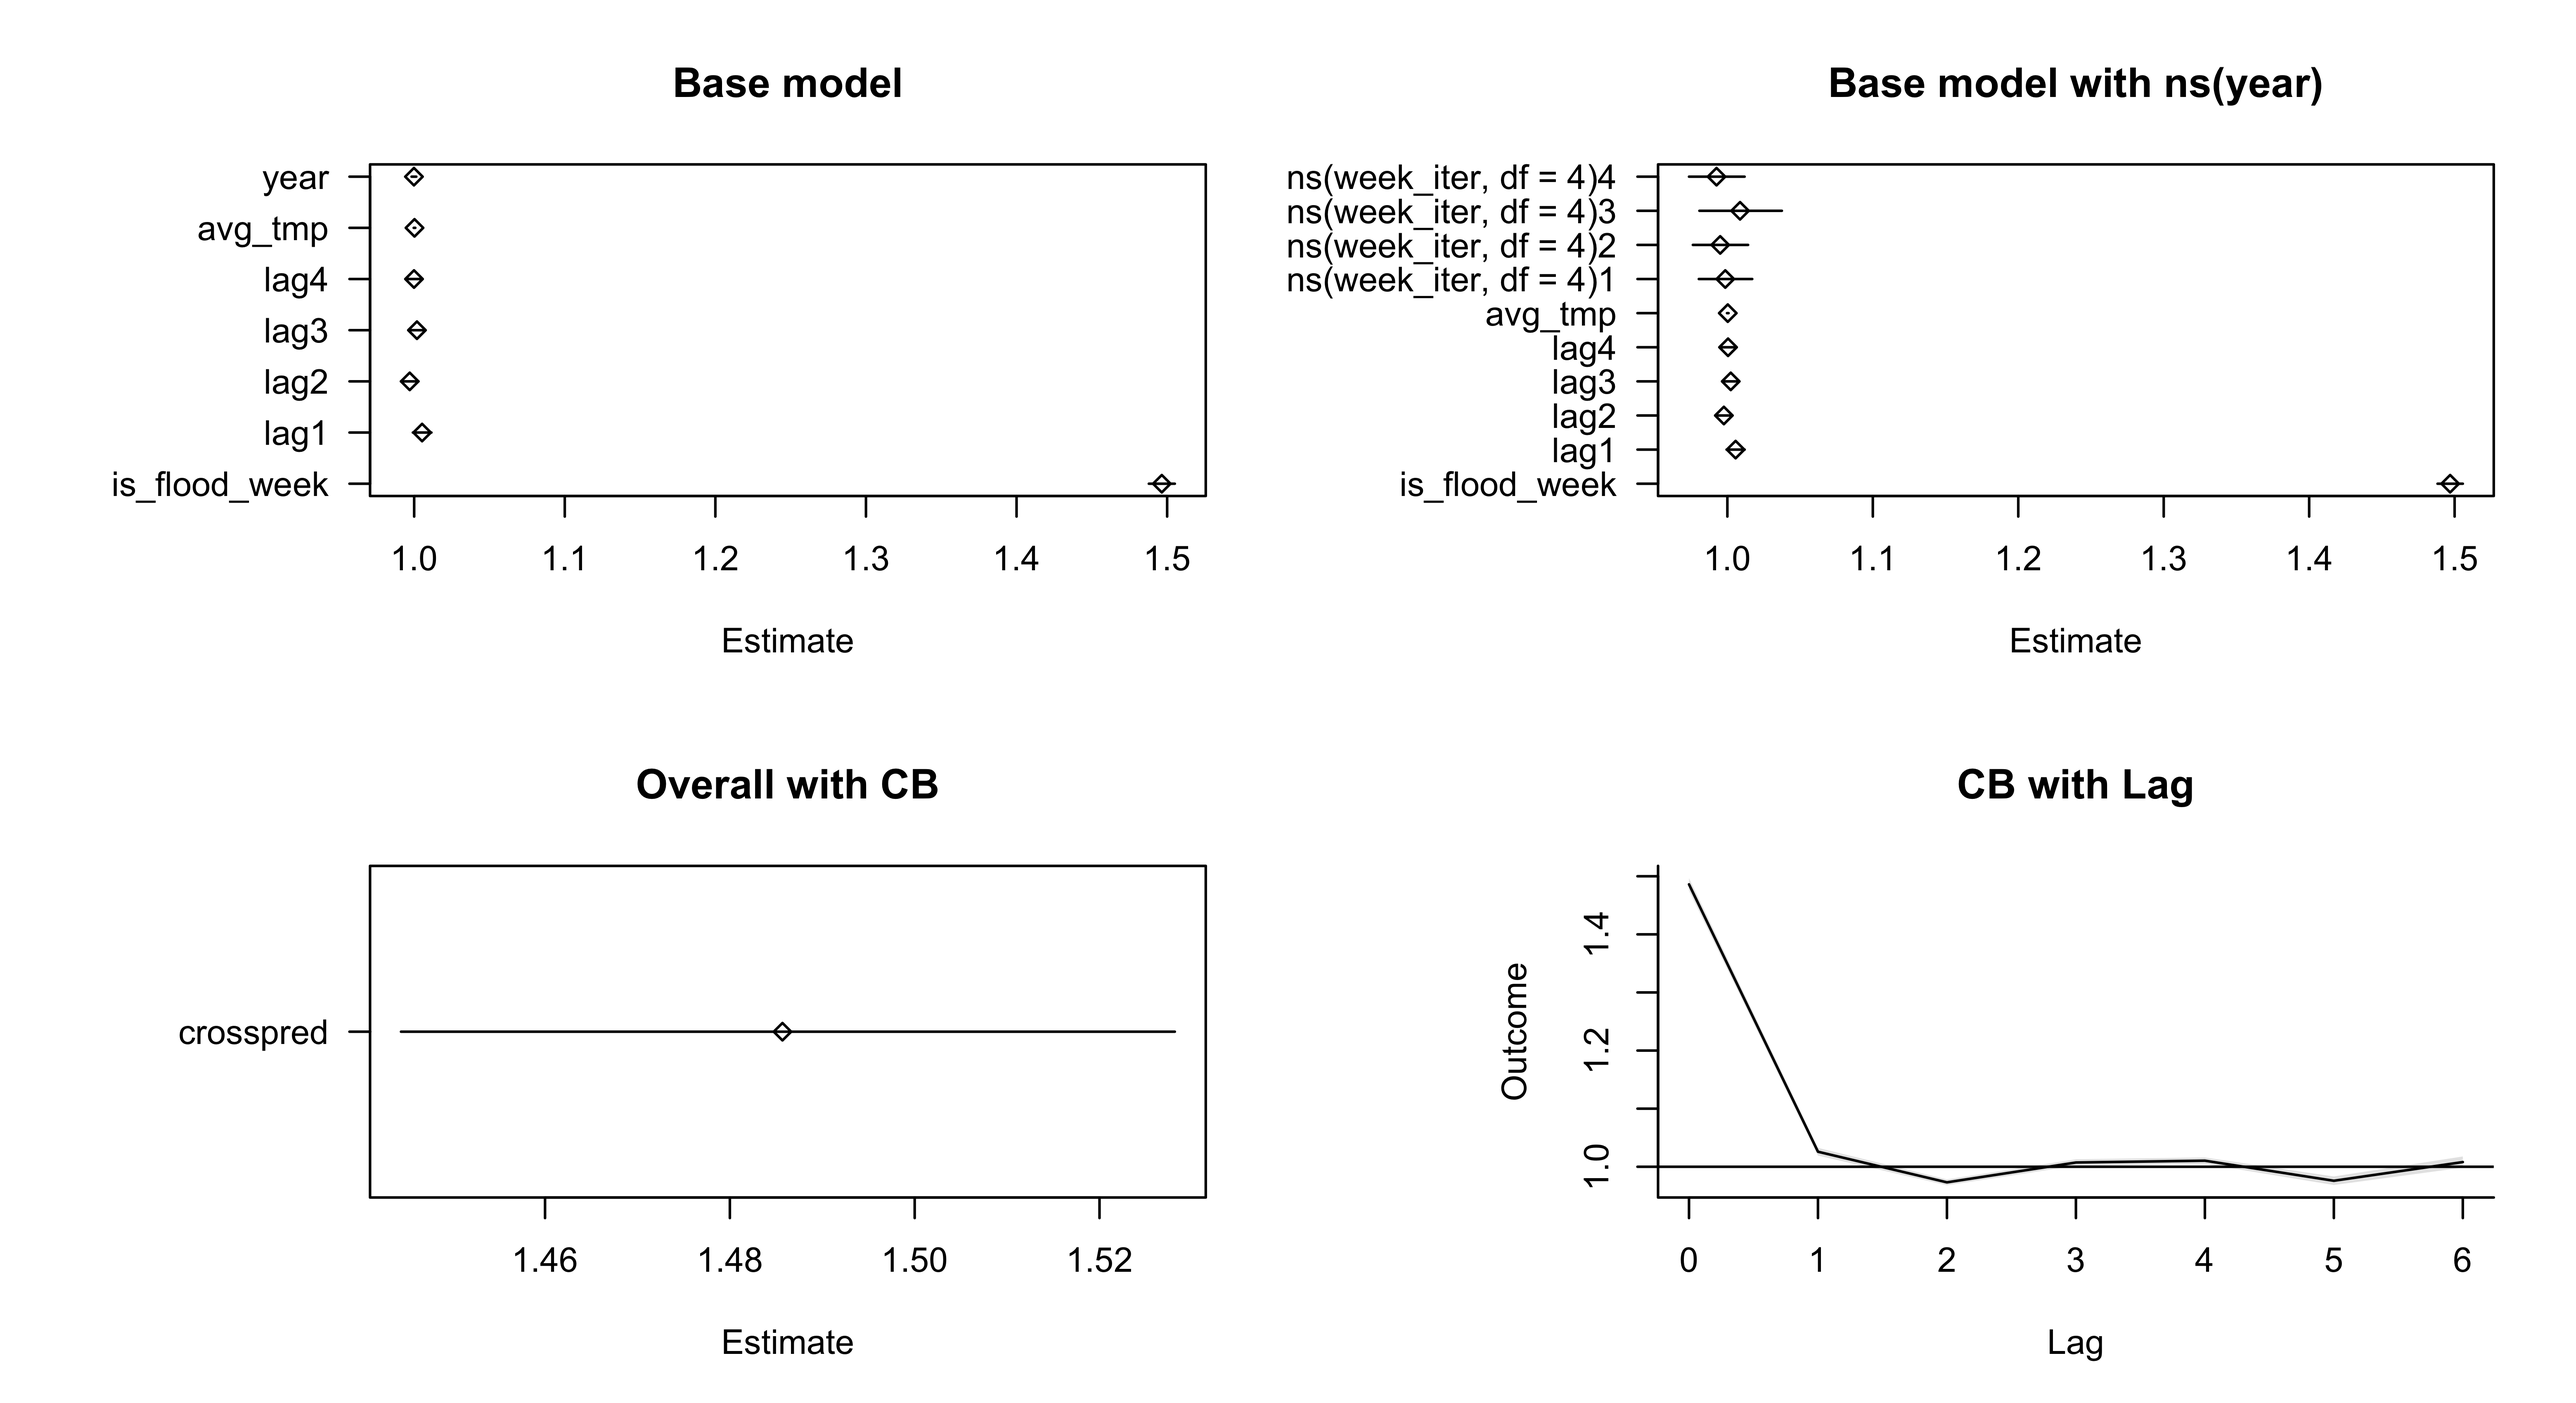
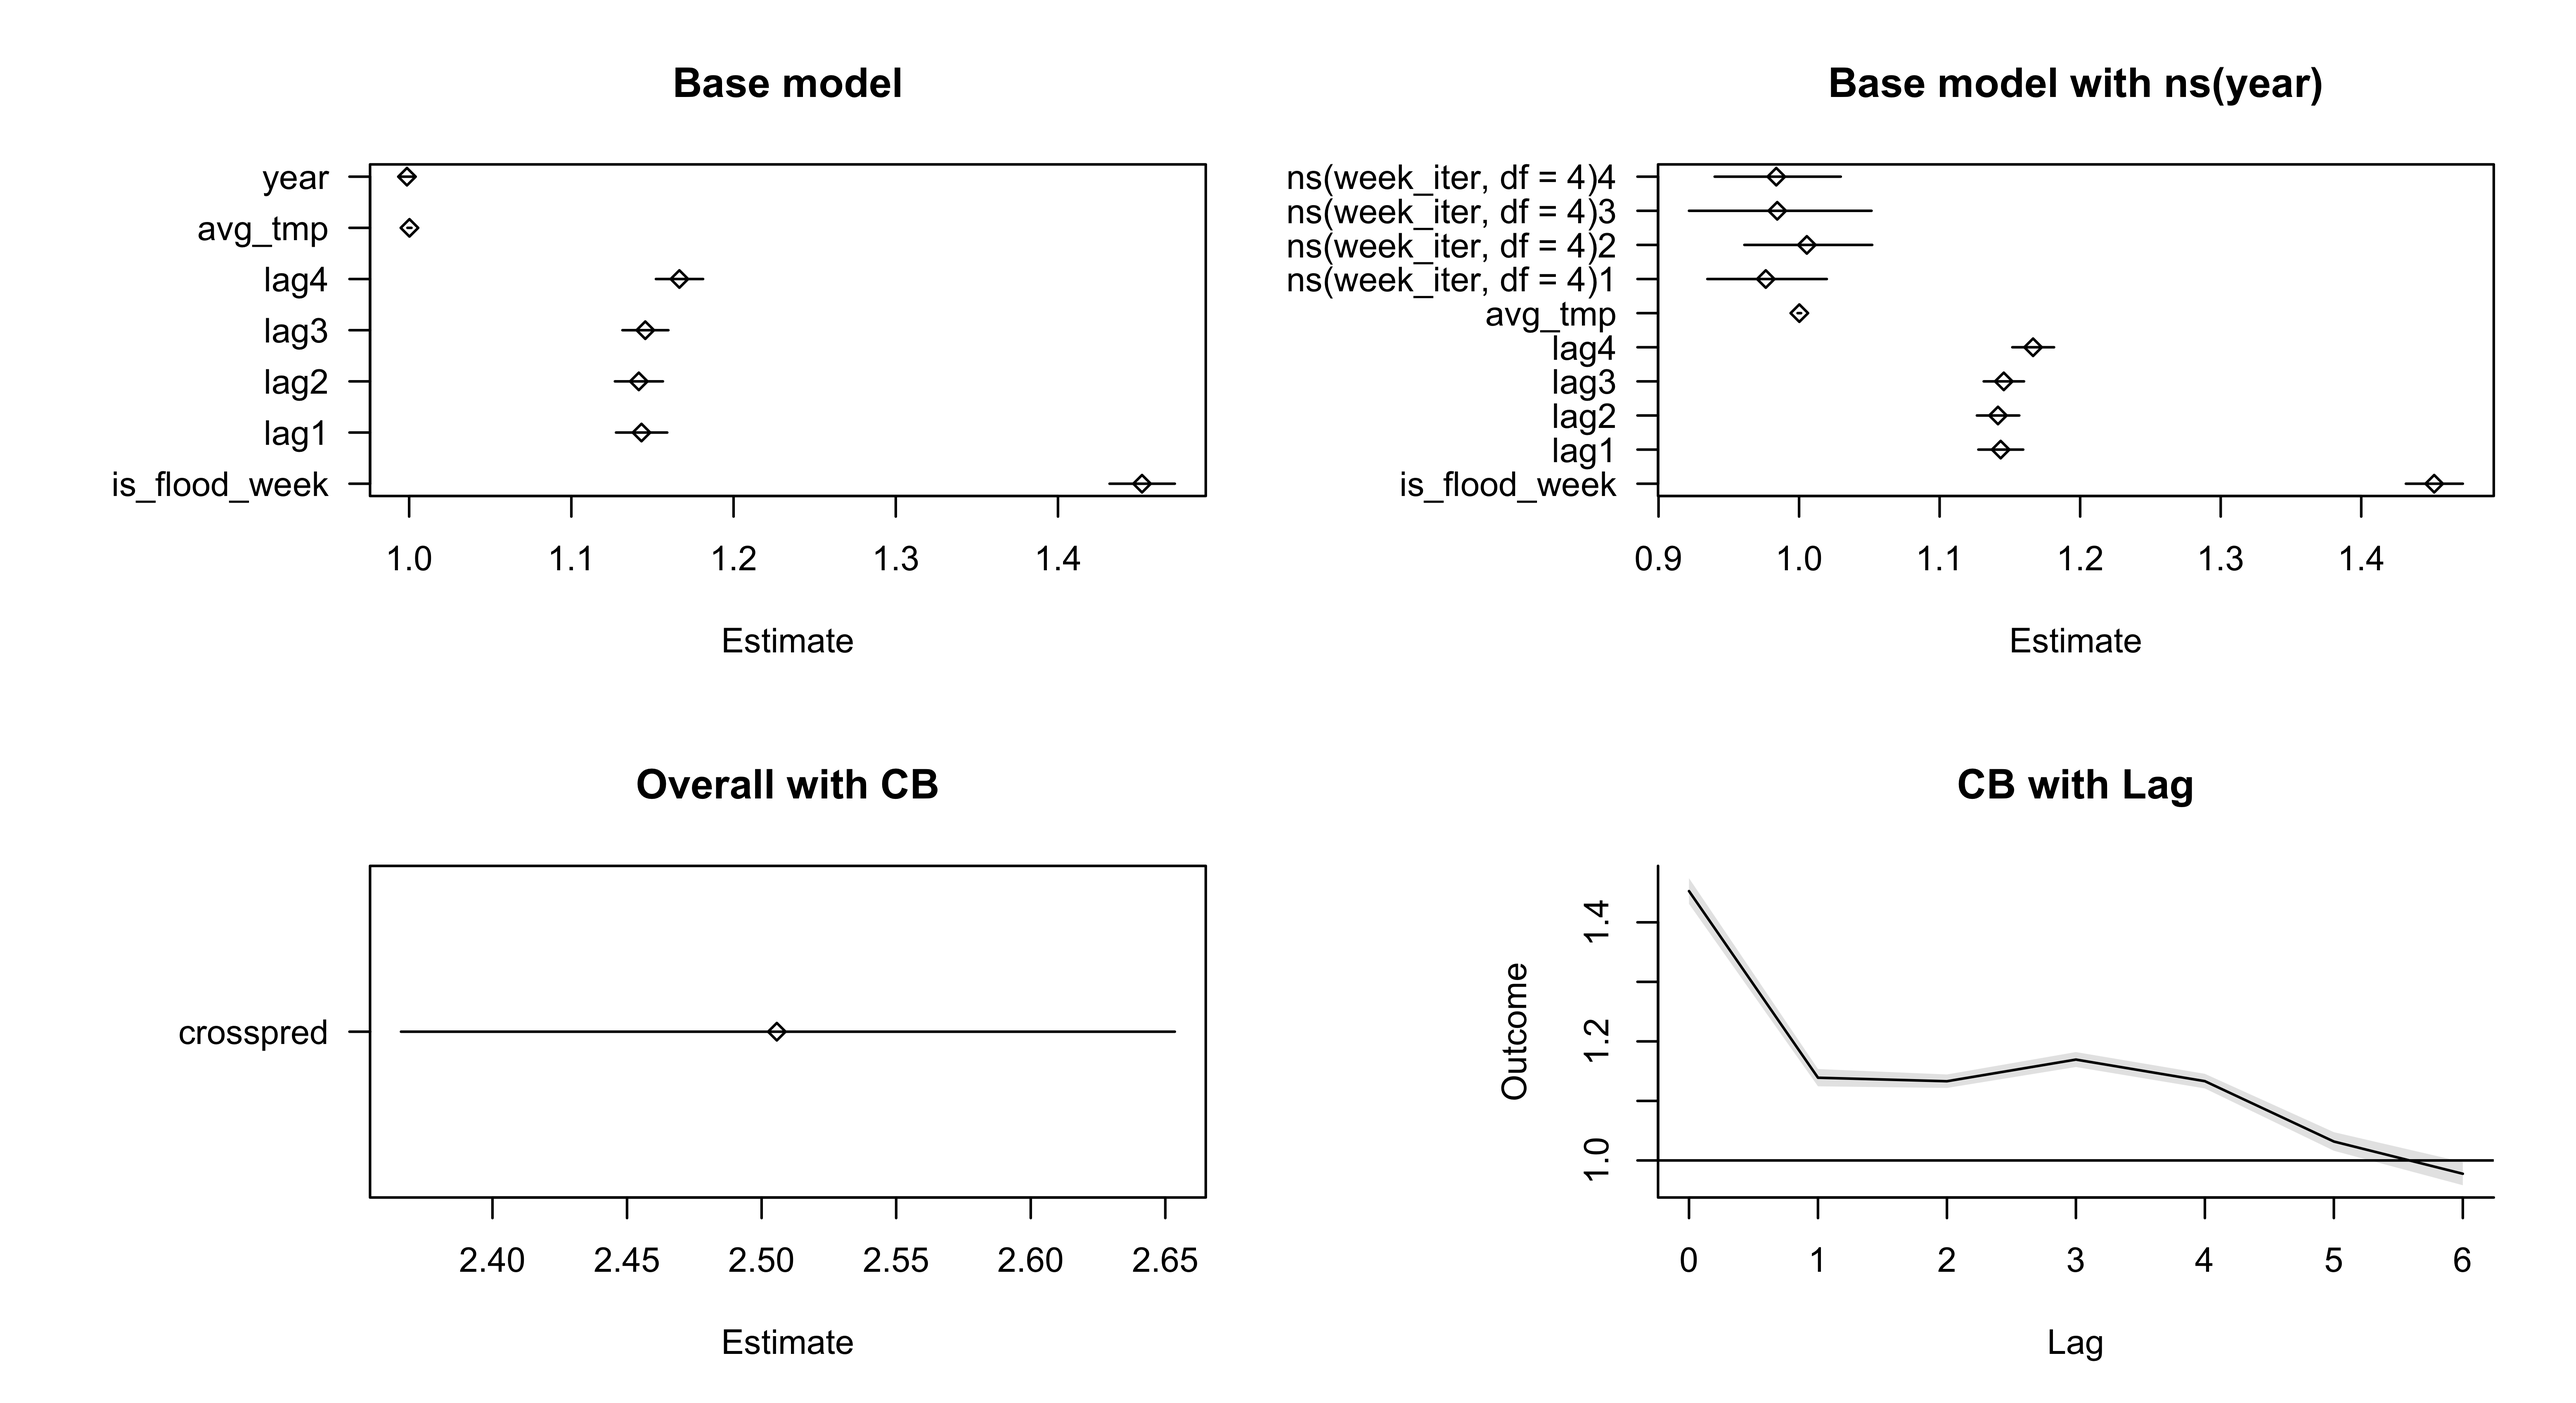
update

diff --git a/README.md b/README.md
@@ -3,4 +3,13 @@ Flood exposure code for ACRES
 
 run testing scenarios from `04_run.R`
 
+For example, for a county with the following params:
+
+```
+RR_1     <- 1.50  # the RR on lag 0
+RR_1_lag <- 1.20  # the RR on lags 1:4
+ybeta_1  <- 1.00  # the year trend (in log space, so 2 means doubling every year)
+```
+you get:
+
 ![Alt text](demo_v1.png)
